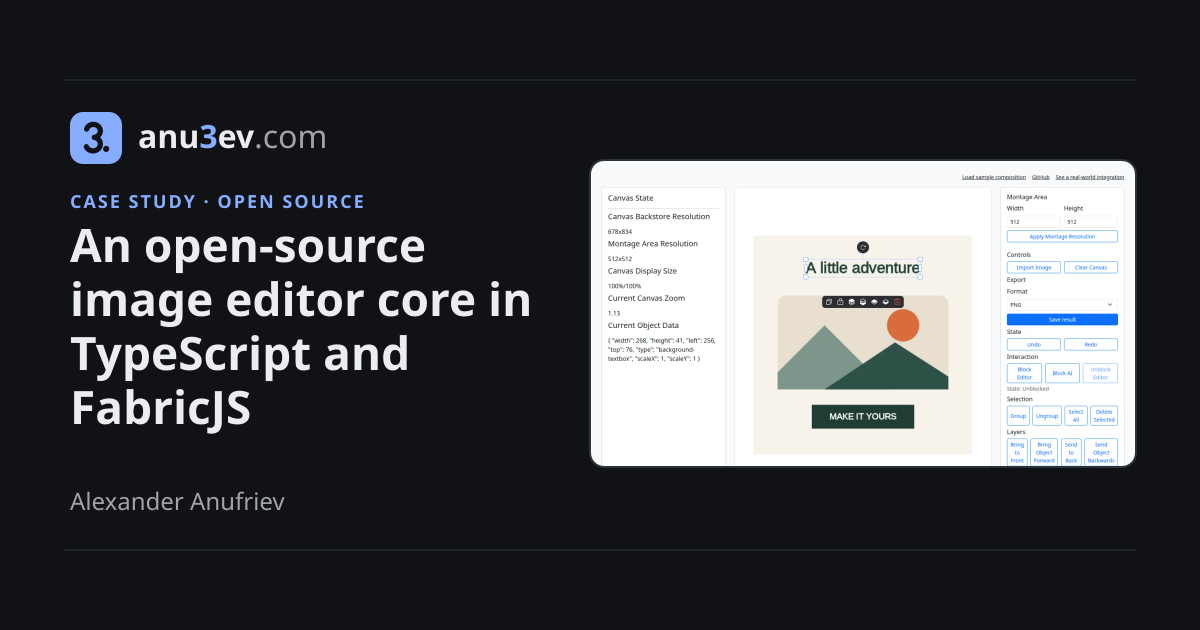
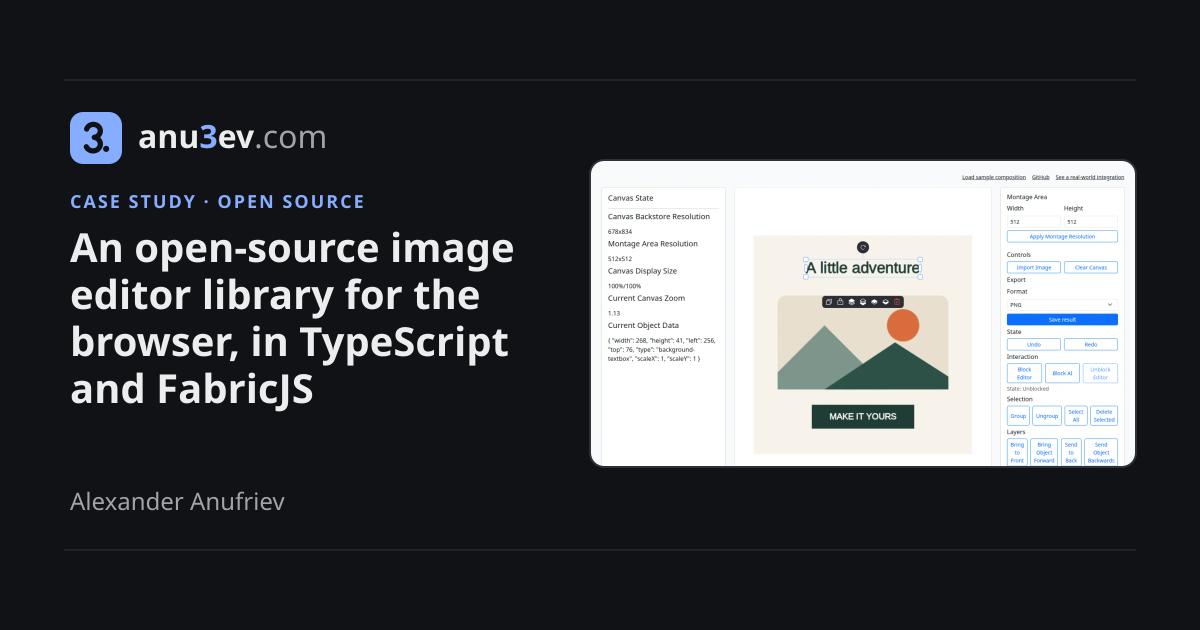
Image editor library case rebuilt from the project note; release 1.8.10

Changed region(s): [[0.0617, 0.3619, 0.4625, 0.6937]]

diff --git a/content/en/projects/image-editor.md b/content/en/projects/image-editor.md
@@ -1,6 +1,6 @@
 ---
-title: An open-source image editor core in TypeScript and FabricJS
-description: A browser image editor library with a public API, full state serialization, templates, snapping and export to four formats. Image loading became more than 2× faster after I reworked how image data is stored.
+title: An open-source image editor library for the browser, in TypeScript and FabricJS
+description: "A browser image editor library in TypeScript and FabricJS with a public API, full state serialization, templates and snapping. It powers the inSales infographics editor, and after I removed base64 from the editor state, images load more than twice as fast."
 locale: en
 slug: image-editor
 published: true
@@ -10,64 +10,86 @@ category: Open source
 year: Mar 2025 – present
 context: Open source
 role: Sole author and maintainer, from architecture and public API to tests and releases
-stack: [TypeScript, FabricJS, HTML Canvas, JavaScript, Vite, Technical Documentation, Playwright, Problem Solving, E2E, Web Workers, Web Performance, State Management, Front-End Development, AI-Assisted Software Development, Jest, npm, Frontend Architecture, End-to-end Testing, CI/CD, Git]
+stack: [TypeScript, FabricJS, HTML Canvas, Web Workers, Vite, Jest, Playwright, npm]
 featured: false
 order: 3
 repository: https://github.com/Anu3ev/image-editor
 demo: https://anu3ev.github.io/image-editor/
 results:
   - value: ">2×"
-    label: faster image loading after replacing base64 image data with Blob and Object URLs
+    label: faster image loading after removing base64 from the editor state
+  - value: "2 months"
+    label: "from the start of development to the first inSales production release of the editor built on it"
   - value: "4"
-    label: export formats from one composition, PNG, JPEG, SVG and PDF
+    label: "export formats for one composition: PNG, JPEG, SVG and PDF"
 ---
-
 ## The problem
 
-In March 2025 inSales needed a browser editor for product images. The quick path was to put the canvas code inside the Vue screen that would use it. I chose to build it as a separate TypeScript library on top of FabricJS instead: canvas, objects, history and editing rules form a system of their own, and inside one product component they would be hard to test and impossible to reuse.
+In March 2025, inSales started building a browser editor for product photos. The easiest way was to write all the canvas code right in the editor’s Vue component. But the canvas, objects, change history and editing rules together form a separate system, and inside one product component it is hard to test and can’t be reused. So I decided to move this logic into a separate TypeScript library on top of FabricJS, a library for working with objects on a canvas.
 
-The library is published as [`@anu3ev/fabric-image-editor`](https://www.npmjs.com/package/@anu3ev/fabric-image-editor) under the MIT license and is the engine of the [inSales product image editor](/work/product-image-editor/). That case covers the product, its users and its AI workflows. This one covers the engine.
+The main difficulty was that the editor has many subsystems that depend on each other: images, text, shapes, layers, change history, templates and snapping. Objects must behave the same way when they are created, copied, grouped, applied from a template, loaded from a saved state or brought back with undo.
+
+The library is published as [`@anu3ev/fabric-image-editor`](https://www.npmjs.com/package/@anu3ev/fabric-image-editor) under the MIT license. It powers the [inSales product infographics editor](/work/product-image-editor/), which more than 3,000 active clients use. That case covers the product, its users and the AI features; this one is about the library itself.
 
 ## My role
 
-I built the library alone, working with AI coding agents from the start. I designed the architecture and the public API, wrote the code and tests, and set up the build, CI and releases to GitHub Releases, npm and the GitHub Pages demo. The only production consumer I can confirm is my own Vue integration at inSales. I keep maintaining the library after leaving inSales in September 2026.
+I started the library on 25 March 2025 and built it alone, using AI agents from the start. I designed the architecture and the public API, wrote the code and tests, and set up the build, CI and publishing to GitHub Releases and npm, and the demo on GitHub Pages. After leaving inSales in September 2026, I still maintain the library.
 
 ## What I built
 
-### Managers behind a public API
+### The app controls the editor only through the public API
 
-The editor creates a workspace inside a container the host passes in. Responsibilities are split between managers: `CanvasManager` owns canvas size, the montage area and the viewport, `HistoryManager` stores and restores state, `ShapeManager` keeps a shape and its inner text in sync, `CropManager` holds the temporary crop state, and others for images, text, templates and snapping.
+The app gives the library an HTML container, and the library creates an editor in it with a working area (the montage area) that defines the boundaries of the final composition. Inside, responsibilities are split between manager classes. `CanvasManager` handles the canvas size, the working area and the viewport. The viewport is the visible part of the canvas, and it changes with zoom and panning. `HistoryManager` saves and restores state, `ShapeManager` keeps a shape in sync with the text inside it, and `CropManager` holds the temporary crop state. There are separate managers for images, text, templates and snapping.
 
-A host application works only through public methods, options and events. It never mutates FabricJS objects directly. Product rules plug in through extension points: the host can forbid deleting a specific object or strip its service data when it is copied, and an async import hook lets the host upload a file first and hand back the prepared source. AI is deliberately out of scope. The host calls its own service and passes the image or text in through the same API.
+The outside app works only through public methods, settings and events and never changes FabricJS objects directly. Product rules plug in through extension points: for example, the app can forbid deleting a system object or remove an internal ID from a copy before pasting it. With an async import hook, the app can first upload a file to its own server and return a ready-to-use image source to the library.
 
-### One serialization for every way an object appears
+I deliberately kept AI out of the library. The app calls its own AI service and passes the resulting image or text through the same public API, so new AI features don’t add product dependencies to the library.
 
-An object can be created, imported, pasted, grouped, restored from a saved project, applied from a template or brought back by undo. Each path has to restore Fabric’s own properties and the library’s data: IDs, locks, selectability, rich-text styles and links between nested objects.
+### An object is restored the same way, however it appeared
 
-So I made one serialization mechanism serve saved projects, history, templates and the clipboard. Temporary states stay out of it. An active crop lives only during the interaction and reaches history once the user applies it. Operations that change several properties at once are committed as a single history entry, so one user action needs one undo.
+An object can be created, imported, pasted from the clipboard, grouped, restored from a saved project, taken from a template or brought back with undo. On each path, the editor has to restore both the FabricJS properties and the library’s own data: IDs, locking, whether it can be selected, text styles and links between nested objects.
+
+So I built one serialization mechanism: the editor state is saved to JSON and restored from it. Saved projects, the change history, templates and the clipboard all run on it. Temporary states are not saved: a crop goes into the history only when the user applies the result.
 
 ![Canvas crop mode in the public demo: a grid over the composition and Apply Crop and Cancel Crop controls](/images/work/image-editor/demo-canvas-crop-mode.webp)
 
-### Geometry in four coordinate spaces
+The change history reflects the user’s actions, not every internal operation. Some actions are technically several changes, and when needed they are saved to the history as one step, so one user action is undone with one undo.
 
-Canvas coordinates, the zoomed and panned viewport, the montage area and local group coordinates are different spaces. Mixing them makes objects jump on resize, crop or restore. The library owns those conversions. When the canvas is resized or a project is restored, it moves the viewport instead of every object, so offsets do not accumulate in the saved composition.
+### Coordinates are converted between four systems
 
-Templates store positions relative to the montage area with start, center or end anchors on each axis, so a template keeps its layout on a workspace of a different size. Snapping to edges, centers and equal spacing, and distance measurement on Alt, are computed during the drag with zoom and transforms taken into account.
+The editor works with canvas coordinates, viewport coordinates, working area coordinates and the local coordinates of objects inside groups at the same time. If they get mixed up, objects shift when the size changes, after a crop or when a project is restored, so the library converts coordinates between these systems itself. When the canvas size changes or a project loads, the library moves the viewport instead of the objects, so rounding errors don’t accumulate in the saved composition.
 
-### Taking base64 out of editor state
+### A template keeps its layout on a working area of a different size
 
-Early versions kept large images as base64 inside objects and history. That bloated every serialized state and put heavy work on the main thread. I replaced it with Blob and Object URLs, added a resource cache with explicit cleanup when an image is replaced or the editor is destroyed, and moved heavy import and export work to Web Workers. Image loading became more than twice as fast, and long operations stopped freezing the interface.
+Templates store object positions relative to the working area, with an anchor at the start, center or end of each axis. So a template can be applied to a working area of a different size, and the layout stays the same. Copying one photo’s design to all photos of a product in the infographics editor uses the same mechanism: the design of one product photo is saved as a temporary template and applied to the product’s other photos.
 
-Export renders from a separate copy of the canvas, so the zoom, selection and viewport on screen stay untouched. It also accounts for device pixel ratio and browser zoom, so output size does not depend on the user’s display settings.
+### I added snapping while building infographic templates myself
 
-### Tests that follow the interaction
+In the infographics editor, merchants get ready-made templates with text, badges and shapes already in place, so they don’t have to build a marketplace image from scratch. I built these system templates myself, right in the editor, from the designer’s Figma mockups. While doing it, I noticed that objects could only be placed by eye: you couldn’t see whether the edges of two badges lined up or whether the spacing between them was equal. I couldn’t match the mockup exactly.
 
-Jest covers the logic, and Playwright runs browser scenarios for crop, selection, scaling, snapping and text editing. Some bugs only appear mid-drag, so tests also check intermediate states.
+I wanted the editor to help the way Canva does, so in November and December 2025 I added snapping and guides to the library. An object snaps to the edges and center of the working area, to the edges and centers of nearby objects and to positions with equal spacing between objects, and when you hold Alt, the editor shows the distances to them. All of this is calculated while the object is being dragged and takes zoom and object transforms into account. I built it for my own templates, and then merchants started using snapping too.
 
-In October 2026 I reworked the release and initialization paths. The release workflow now runs typecheck, lint, Jest and browser tests before npm publication, and creates the tag and GitHub Release in a separate job that can be retried without republishing. Initialization now waits for readiness, reports failures and stops stale async work.
+### Text stays inside its shape
+
+Shapes with text inside are compound objects in the library: the shape and the text must stay consistent through any change. If there is enough room, the shape can grow with the text, and once it reaches its maximum width, the text starts wrapping. This logic has to work the same way during resizing, after the mouse button is released, when restoring from history, when copying and when applying a template.
+
+### Without base64, images load more than twice as fast
+
+In early versions, large images were stored in objects and in the history as base64, the whole file encoded as a text string. Because of that, image objects became large and saving to the history was slow. Copying and exporting also froze the page, because the image was converted to base64 on the browser’s main thread. I switched images to Blobs and Object URLs and added caching for loaded resources, and Object URLs are revoked when an image is replaced or the editor is destroyed. Heavy import and export work now runs in Web Workers. Images started loading more than twice as fast, and long operations stopped freezing the interface.
+
+### Export doesn’t change what the user sees on screen
+
+A composition can be exported to PNG, JPEG, SVG or PDF. To produce the final file, the editor has to change the zoom and move the working area to the corner of the container, and then put everything back. So instead of changing the visible canvas, the editor renders the export from a separate copy, and the zoom, selection and viewport on screen don’t change. Device pixel ratio and browser zoom are taken into account, so the size and quality of the final image don’t depend on the user’s screen settings.
+
+### Tests check intermediate states too
+
+Jest covers the logic, and Playwright checks cropping, selection, zoom, snapping and text editing in a browser. Some bugs appear only in the middle of a drag, so the tests check the intermediate states too, not only the result.
+
+In October 2026 I reworked the release process: now the GitHub Actions workflow runs type checks, the linter, Jest and the browser tests before publishing to npm, and a separate job creates the tag and the GitHub Release; that job can be rerun without publishing to npm again.
 
 ## Results
 
-- Image loading is more than twice as fast after the move from base64 to Blob/Object URLs, caching and Web Workers. This is about image loading, not every operation.
-- One composition exports to PNG, JPEG, SVG or PDF.
-- Public signals, checked on October 21, 2026: 19 GitHub stars, 7 forks and 188 npm downloads in the week of October 12–18. Downloads are not a count of users.
+- The library became the base of the inSales infographics editor, which more than 3,000 active clients use, and it is still a separate package that can be developed independently of the product.
+- The first version of the editor built on it went to production at inSales behind a feature flag on 30 May 2025, two months after development started.
+- Images load more than twice as fast after removing base64, caching resources and moving import and export to Web Workers.
+- Public numbers as of 21 October 2026: 19 stars and 7 forks on GitHub, 188 npm downloads in the week of 12–18 October.
